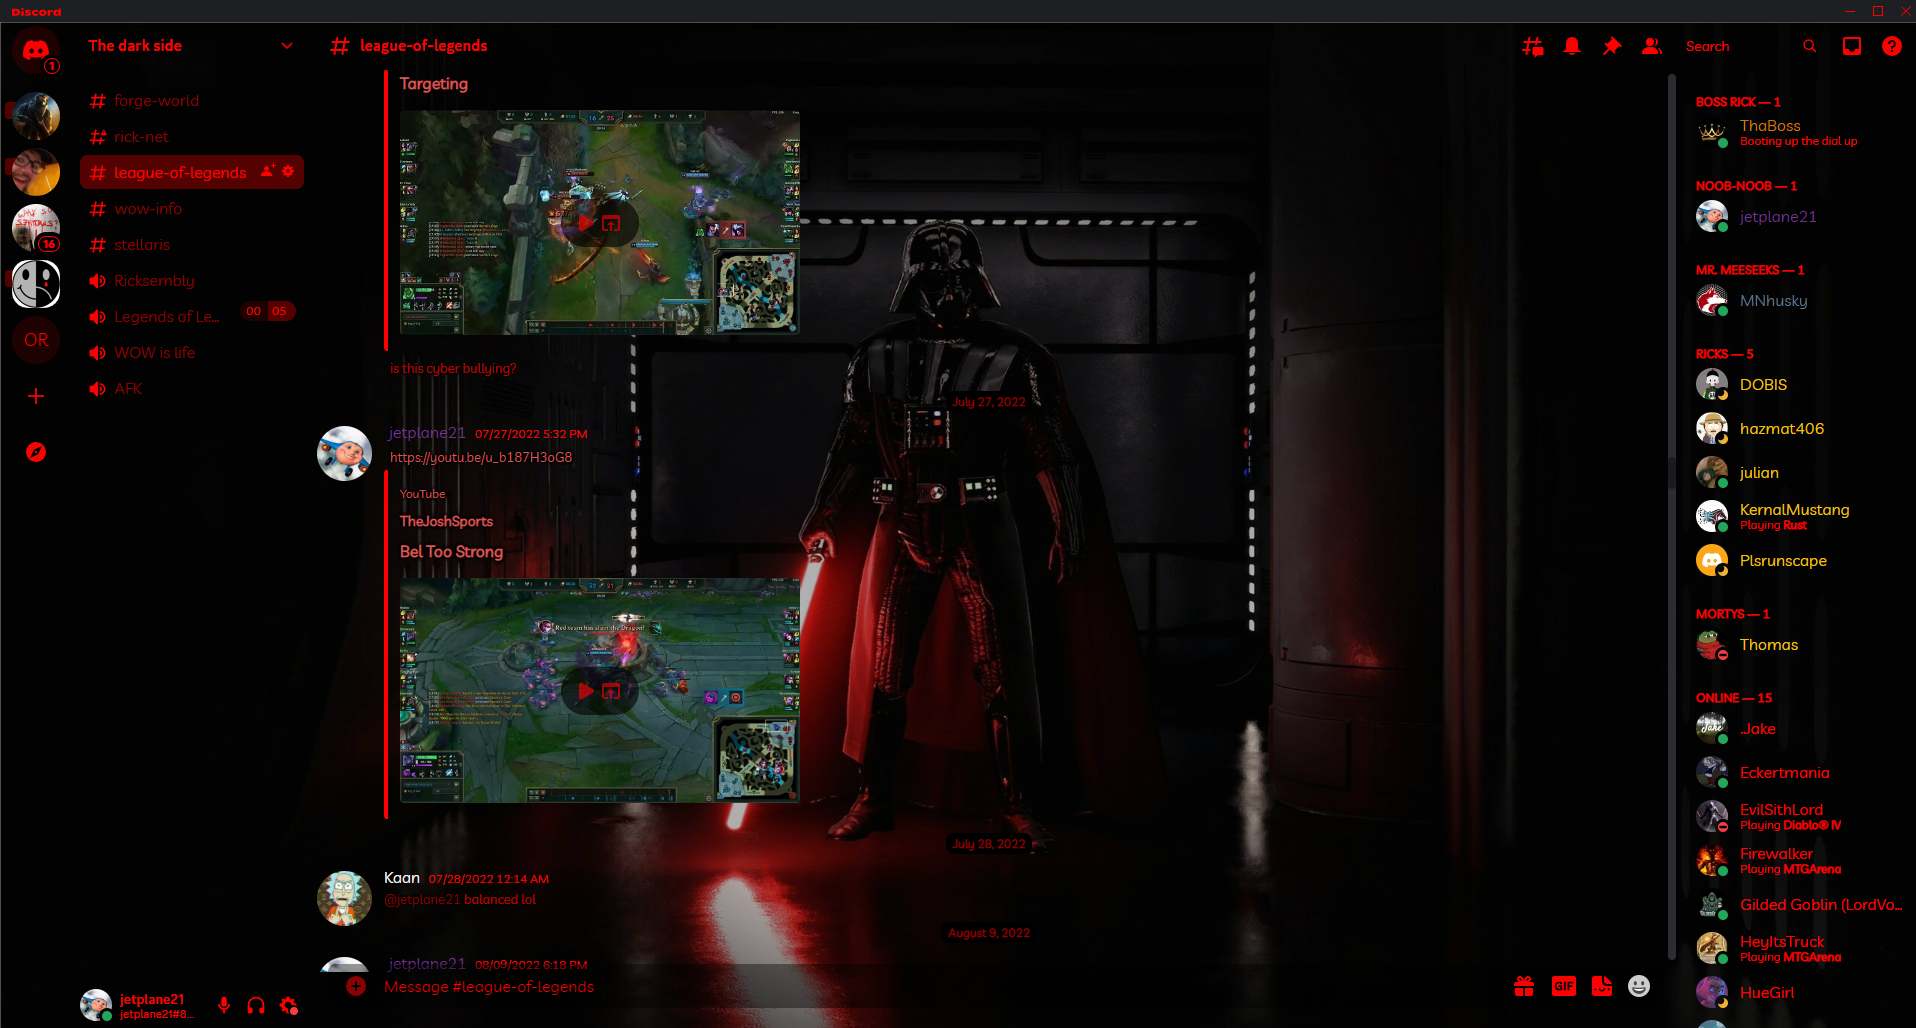
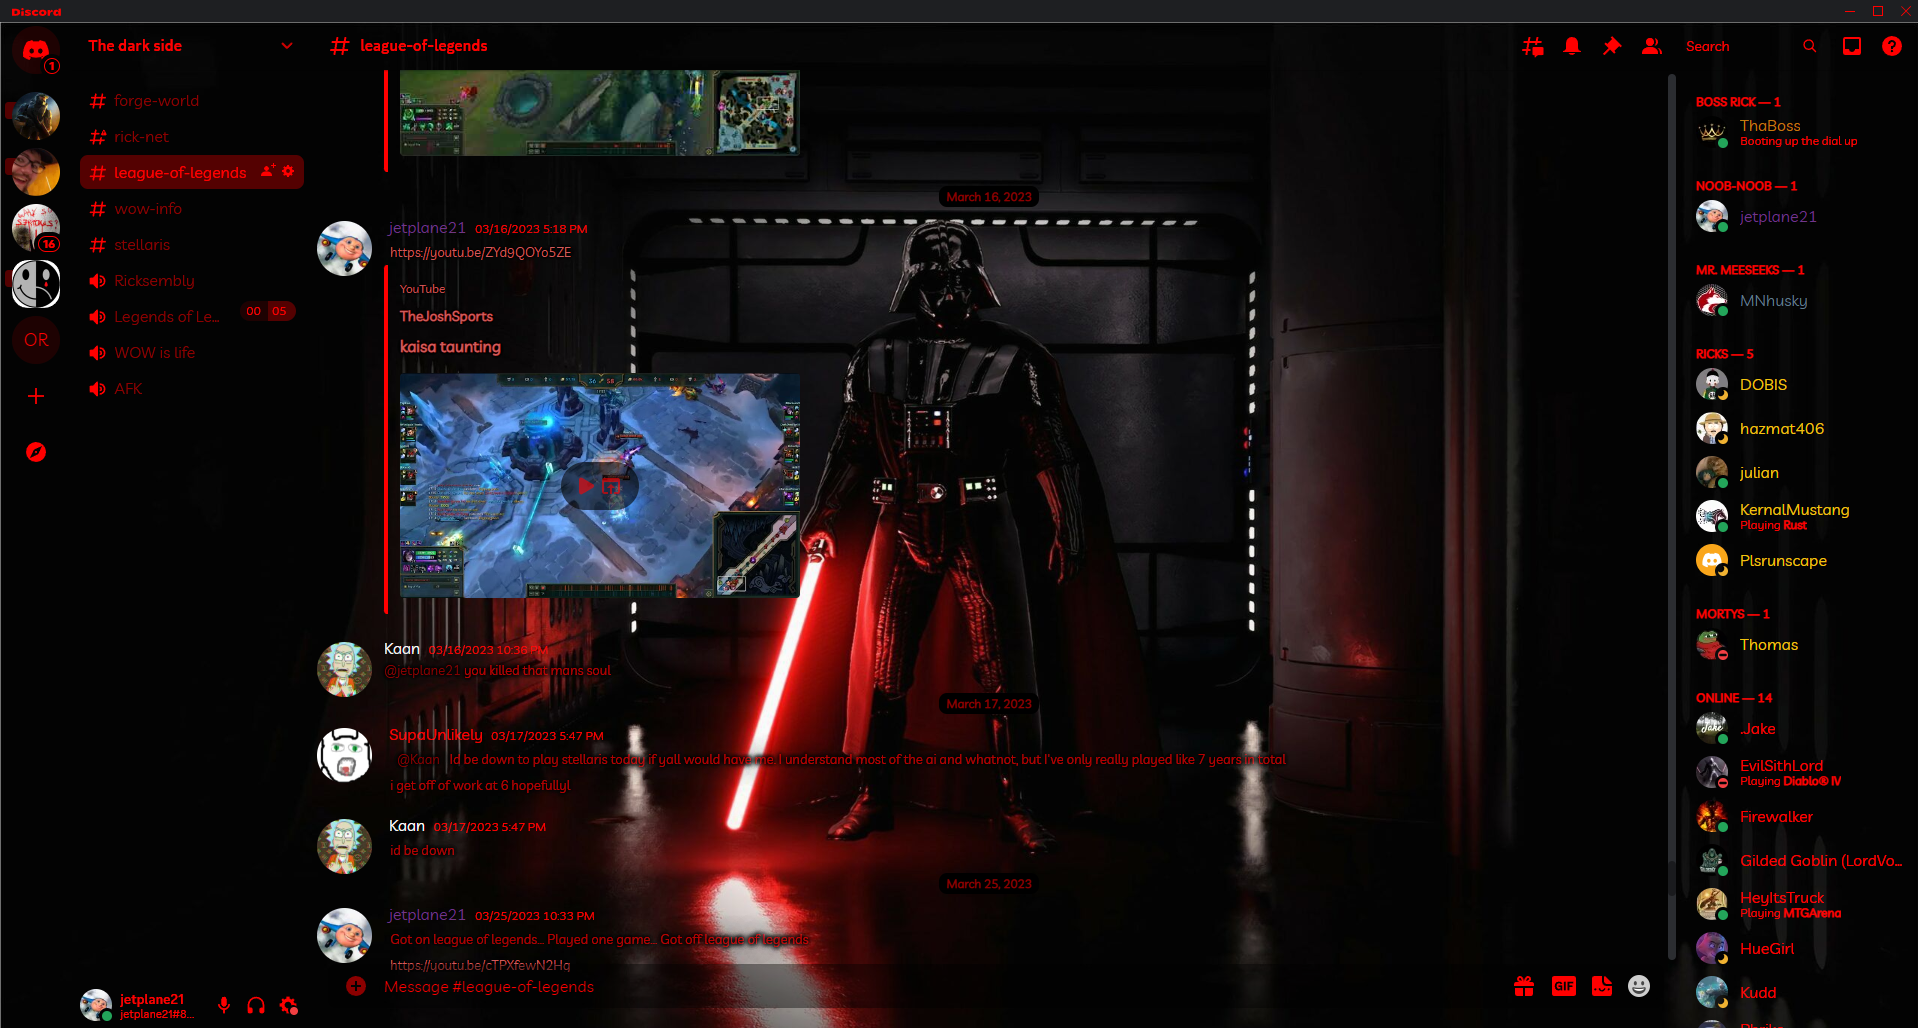
background more clear

diff --git a/SW_Darth_Vader.theme.css b/SW_Darth_Vader.theme.css
@@ -154,7 +154,7 @@
  
  #app-mount .app-2CXKsg {
      background-image: linear-gradient(45deg,
-     rgba(0, 0, 0, .3) 100%,
+     rgba(0, 0, 0, .01) 100%,
      rgba(0, 0, 0, 1) 0%),
      url(https://drive.google.com/uc?export=view&id=1TxPYIenhg8M35qXvlNRMNuvSmzaykFvn);
      background-size: 100% 100%;
